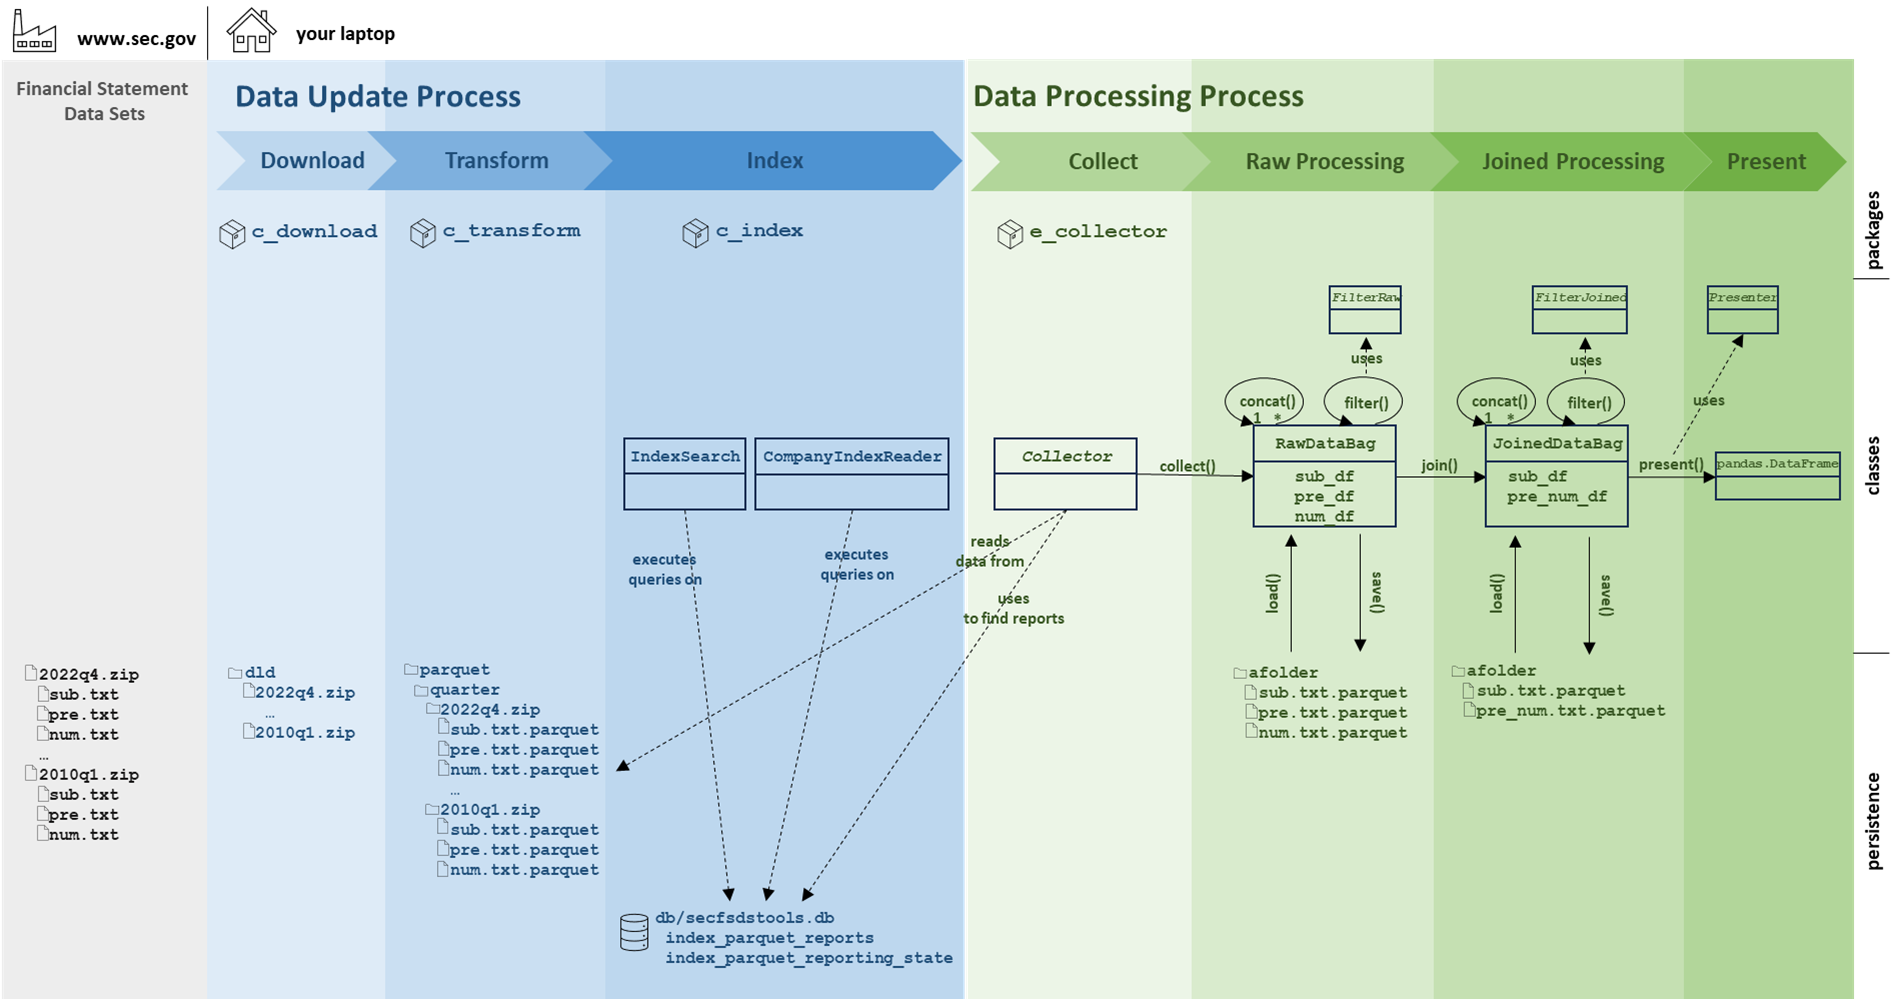
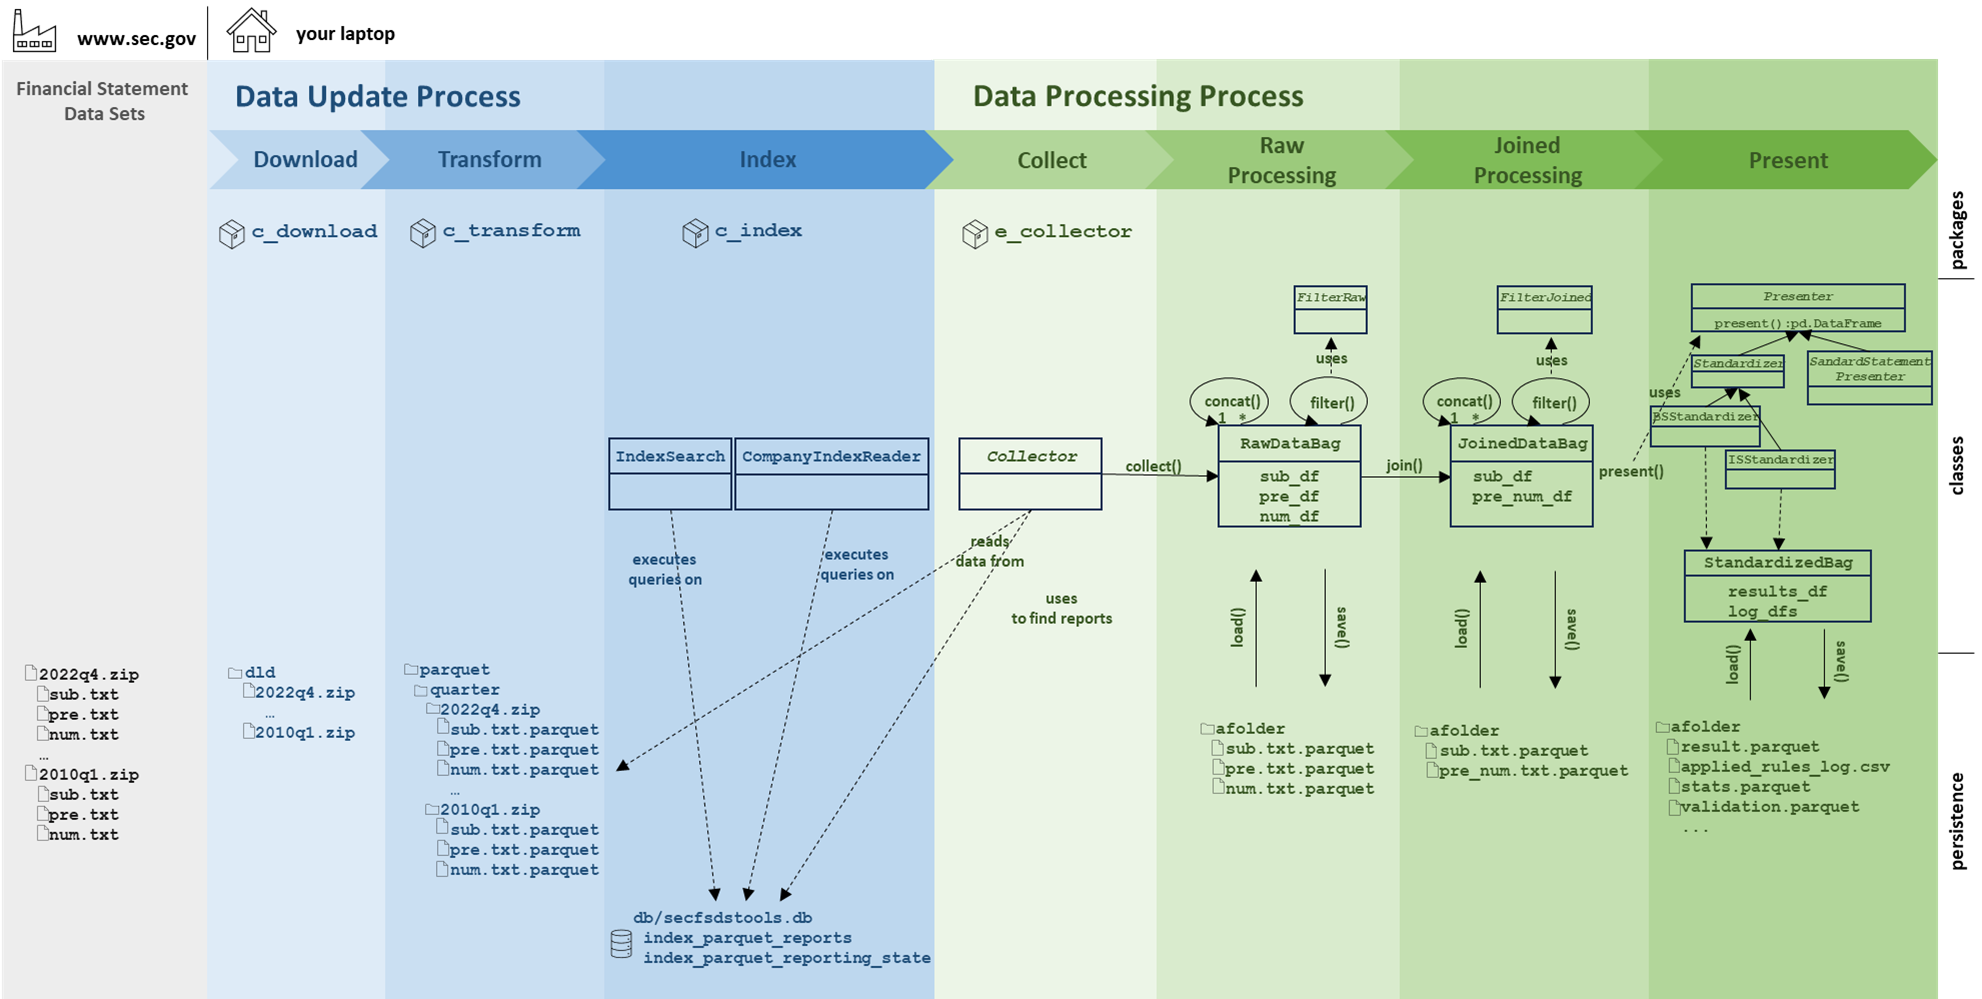
working on readme

diff --git a/tests/f_standardize/test_base_rules.py b/tests/f_standardize/test_base_rules.py
@@ -3,7 +3,8 @@ import pandas as pd
 
 from secfsdstools.f_standardize.base_rules import CopyTagRule, MissingSumRule, MissingSummandRule, \
     SumUpRule, SetSumIfOnlyOneSummand, PostCopyToFirstSummand, PreSumUpCorrection, \
-    missingsumparts_rules_creator, setsumifonlyonesummand_rules_creator, SubtractFromRule
+    missingsumparts_rules_creator, setsumifonlyonesummand_rules_creator, SubtractFromRule, \
+    PostFixSign
 
 
 def test_missingsumparts_rules_creator():
@@ -340,3 +341,22 @@ def test_subtract_values_and_store_result():
 
     # Assert
     assert data_df["target"].tolist() == [5, 17, None]
+
+
+def test_postfixsign_rule():
+    # Arrange
+    start_tag = "ProfitLoss"
+    summand_tag = "AllIncomeTaxExpenseBenefit"
+    result_tag = "IncomeLossFromContinuingOperationsBeforeIncomeTaxExpenseBenefit"
+    data_df = pd.DataFrame({
+        start_tag: [100, 200, 300],
+        summand_tag: [-50, 50, -100],
+        result_tag: [50, 150, 200]
+    })
+    postfix_sign = PostFixSign(start_tag, summand_tag, result_tag)
+
+    # Act
+    postfix_sign.process(data_df)
+
+    # Assert
+    assert data_df[summand_tag].tolist() == [-50, -50, -100]

diff --git a/README.md b/README.md
@@ -21,19 +21,45 @@ The SEC releases quarterly zip files, each containing four CSV files with numeri
 filed within that quarter.
 
 However, accessing data from the past 12 years can be time-consuming due to the large amount
-of data - over 120 million data points in over 2GB of zip files.
+of data - over 120 million data points in over 2GB of zip files by 2023.
 
 This library simplifies the process of working with this data and provides a
 convenient way to extract information from the primary financial statements - the balance sheet, income statement, and
 statement of cash flows.
 
-It also provides an integration with
-the https://rapidapi.com/hansjoerg.wingeier/api/daily-sec-financial-statement-dataset API
-and therefore providing a possibility to receive the latest filings on a daily basis and not just every three months.
+The main features include:
+- all data is on your local hard drive, no need for numerous API calls
+- data is loaded as pandas files
+- fast an efficient reading of a single report, all reports of one or multiple companies, or even all available reports
+```python
+single_collector: SingleReportCollector = SingleReportCollector.get_report_by_adsh(adsh="0000320193-22-000108")
+company_collector = CompanyReportCollector.get_company_collector(ciks=[320193, 789019]) # Apple, Microsoft
+all_2022_collector: ZipCollector = ZipCollector.get_zip_by_names(names=["2022q1.zip", "2022q2.zip", "2022q3.zip", "2022q4.zip"])
+```
+- filter framework with predefined filters, easy to extend, supports easy way of saving, loading, and combining filtered data
+```python
+(collector.collect().filter(USDOnlyRawFilter()) # only data in USD
+                   .filter(StmtRawFilter(['BS']) # only data for balance sheets
+                   .filter(...) #  
+                   .save("./preparedset")) # save the filtered data 
+```
+- standardize the data for balance sheets and income statements (cash flow statements coming soon) to make reports easily comparable
+```python
+company_collector = CompanyReportCollector.get_company_collector(ciks=[320193, 789019], # Apple, Microsoft
+                                                                 post_load_filter=default_postloadfilter) # use predefined filter
+joined_bag = company_collector.collect().join() # load the sub_df, pre_df, and num_df from the zipfiles and join num and pre
+is_standardizer = IncomeStatementStandardizer()
+result_df = joined_bag.present(is_standardizer) # 
+```
 
 
 # Latest news / most important changes from previous versions
 See the [Release Notes](https://hansjoergw.github.io/sec-fincancial-statement-data-set/releasenotes/) for details.
+## 1.4.2 -> 1.5
+* Introducing **Income Statement Standardizer**<br>
+  The Income Statement Standardizer makes the income statements easily comparable.<br>
+  [07_02_IS_standardizer](https://nbviewer.org/github/HansjoergW/sec-fincancial-statement-data-set/blob/main/notebooks/07_02_IS_standardizer.ipynb) <br>
+* 
 ## 1.4 -> 1.4.2
 * Fix in `StandardStatementPresenter`: <br>
   The `StandardStatementPresenter` also considers `qtrs` when displaying the information.
@@ -56,14 +82,6 @@ See the [Release Notes](https://hansjoergw.github.io/sec-fincancial-statement-da
 * New package `u_usecases` introduced. This package is a place to provide concrete examples what you can do
   with the `secfsdstools` library. As a first usecase, the logic shown and explained in the `06_bulk_data_processing_deep_dive`
   is provided as logic within the modul `bulk_loading`.
-
-
-## 1.1 -> 1.2
-* `secfsdstools.e_filter.rawfiltering.USDOnlyRawFilter` is new and removes none USD currency datapoints
-* `MainCoregFilter` was renamed to `MainCoregRawFilter`
-* `OfficialTagsOnlyFilter` was renamed to `OfficialTagsOnlyRawFilter`
-* All filters have been implemented for the JoinedDataBag as well: `secfsdstools.e_filter.joinedfiltering`
-* New notebook [05_filter_deep_dive](https://nbviewer.org/github/HansjoergW/sec-fincancial-statement-data-set/blob/main/notebooks/05_filter_deep_dive.ipynb).
 
 
 # Principles
@@ -96,6 +114,7 @@ report into pandas dataframe tables.
 * [bulk_data_processing_deep_dive Notebook](https://nbviewer.org/github/HansjoergW/sec-fincancial-statement-data-set/blob/main/notebooks/06_bulk_data_processing_deep_dive.ipynb)
 * [standardizer_basics](https://nbviewer.org/github/HansjoergW/sec-fincancial-statement-data-set/blob/main/notebooks/07_00_standardizer_basics.ipynb)
 * [BS_standardizer](https://nbviewer.org/github/HansjoergW/sec-fincancial-statement-data-set/blob/main/notebooks/07_01_BS_standardizer.ipynb)
+* [IS_standardizer](https://nbviewer.org/github/HansjoergW/sec-fincancial-statement-data-set/blob/main/notebooks/07_02_IS_standardizer.ipynb)
 
 
 # Installation
@@ -737,7 +756,7 @@ implementations (module `secfsdstools.e_presenter.presenting`):
     - LiabilitiesAndEquity
 
   With just a few lines of code, you'll get a comparable dataset with the main positions of a balance sheet for Microsoft, Alphabet, and Amazon:
-  (see the [stanardize the balance sheets and make them comparable](https://nbviewer.org/github/HansjoergW/sec-fincancial-statement-data-set/blob/main/notebooks/07_01_BS_standardizer.ipynb) for details)
+  (see the [stanardize the balance sheets and make them comparable notebook](https://nbviewer.org/github/HansjoergW/sec-fincancial-statement-data-set/blob/main/notebooks/07_01_BS_standardizer.ipynb) for details)
    ````python
    from secfsdstools.e_collector.companycollecting import CompanyReportCollector
    from secfsdstools.e_filter.rawfiltering import ReportPeriodRawFilter, MainCoregRawFilter, OfficialTagsOnlyRawFilter, USDOnlyRawFilter
@@ -766,6 +785,44 @@ implementations (module `secfsdstools.e_presenter.presenting`):
    plt.legend()
    ````
    ![Equity Compare](https://github.com/HansjoergW/sec-fincancial-statement-data-set/raw/main/docs/images/equity_compare.png)
+
+  * `IncomeStatementStandardizer` <br>
+    The `IncomeStatementStandardizer` collects and/or calculates the following positions of balance sheets:
+
+  ---- TODO
+
+
+  With just a few lines of code, you'll get a comparable dataset with the main positions of an income statement for Microsoft, Alphabet, and Amazon:
+  (see the [stanardize the income statement and make them comparable notebook](https://nbviewer.org/github/HansjoergW/sec-fincancial-statement-data-set/blob/main/notebooks/07_02_IS_standardizer.ipynb) for details)
+   ````python
+   from secfsdstools.e_collector.companycollecting import CompanyReportCollector
+   from secfsdstools.e_filter.rawfiltering import ReportPeriodRawFilter, MainCoregRawFilter, OfficialTagsOnlyRawFilter, USDOnlyRawFilter
+   from secfsdstools.f_standardize.bs_standardize import IncomeStatementStandardizer
+   
+   bag = CompanyReportCollector.get_company_collector(ciks=[789019, 1652044,1018724]).collect() #Microsoft, Alphabet, Amazon
+   filtered_bag = bag[ReportPeriodRawFilter()][MainCoregRawFilter()][OfficialTagsOnlyRawFilter()][USDOnlyRawFilter()]
+   joined_bag = filtered_bag.join()
+   
+   standardizer = IncomeStatementStandardizer()
+   
+   standardized_is_df = joined_bag.present(standardizer)
+   
+   import matplotlib.pyplot as plt
+   # Group by 'name' and plot equity for each group
+   # Note: using the `present` method ensured that the same cik has always the same name even if the company name did change in the past
+   for name, group in standardized_is_df.groupby('name'):
+     plt.plot(group['date'], group['GrossProfit'], label=name, linestyle='-')
+   
+   # Add labels and title
+   plt.xlabel('Date')
+   plt.ylabel('GrossProfit')
+   plt.title('GrossProfit Over Time for Different Companies (CIKs)')
+   
+   # Display legend
+   plt.legend()
+   ````
+  ![GrossProfit Compare](https://github.com/HansjoergW/sec-fincancial-statement-data-set/raw/main/docs/images/grossprofit_compare.png)
+
 
 
 # What to explore further
